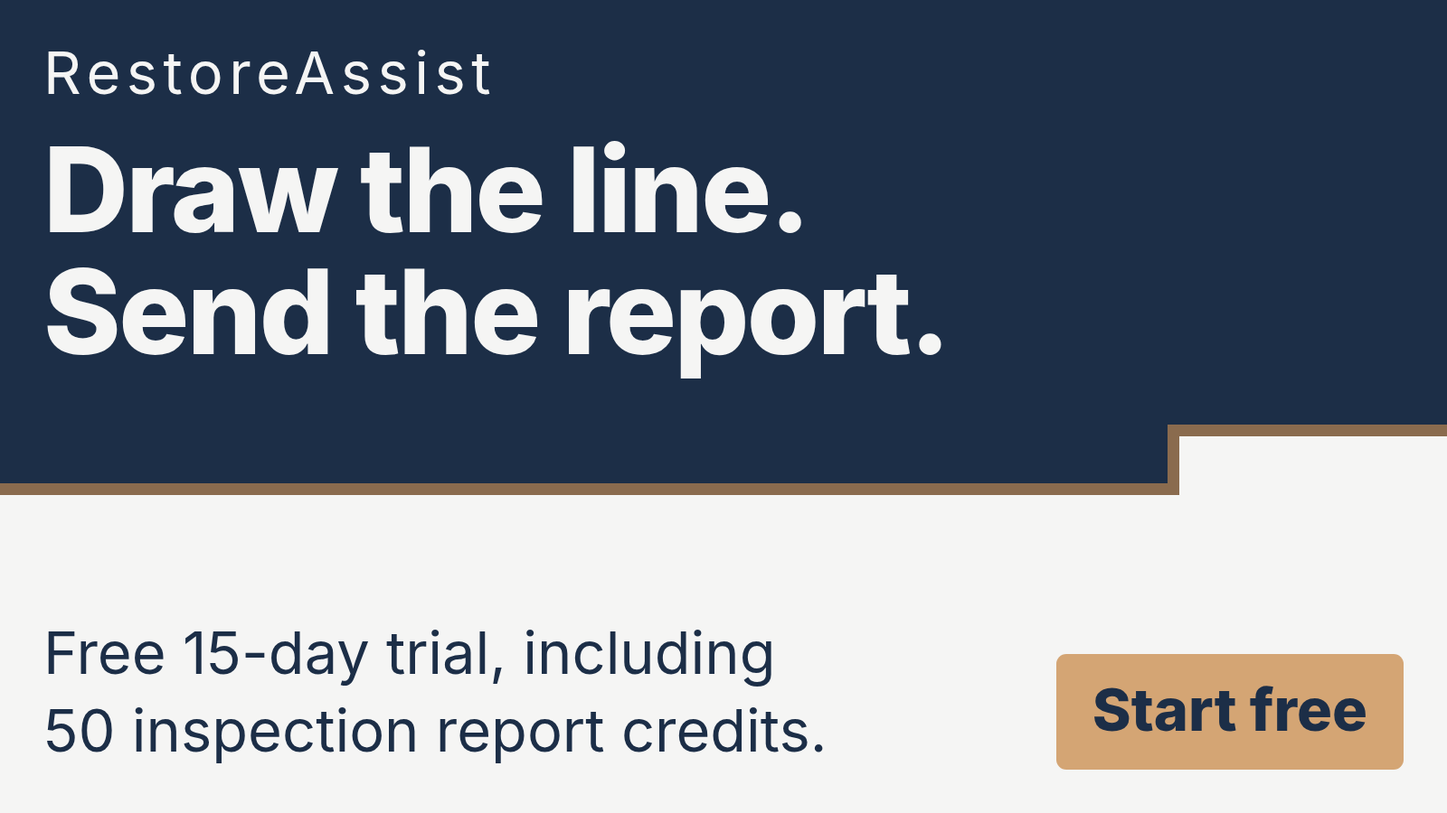
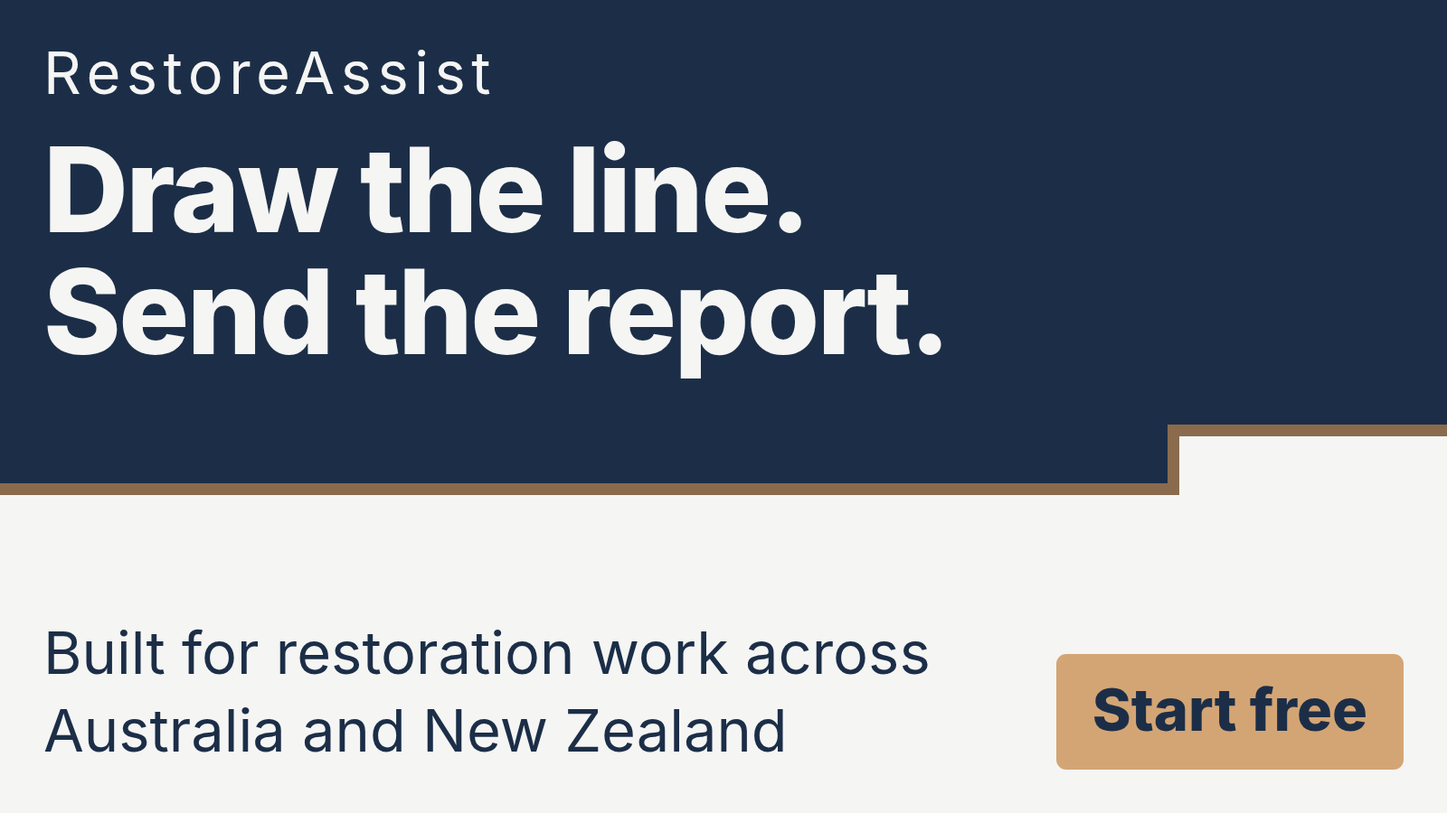
fix(brand-config): close four claims-register findings, withdraw the RA trial claim from boards
Review on #928 posted four findings two minutes before it merged. All four are
valid and two are factual errors of mine, so the corrections land here rather
than on the merged PR.

RestoreAssist's free-trial claim omitted a material cost. The register had
'Free 15-day trial, including 50 inspection report credits' and stopped there.
restoreassist.app/pricing says report generation on every plan, the free trial
included, runs on the customer's own Anthropic or OpenAI API key, billed
separately by the provider; /signup says a key "is required to operate
RestoreAssist" and "You pay providers directly, at cost". A trial advertised as
free while the customer must supply and pay for a third-party key is a material
omission, and the ACL treats that as misleading even where every printed word is
true. The qualification now lives inside the claim string, because a canvas
renders `claim` and never renders `note` — the same reason CARSI's $795 claim
carries "coming soon" inline. The founder owns the final wording; the entry is
marked review_required: founder-wording.

That makes the claim 108 characters, too long for a support line at the 49px
floor. The register's own rule covers this case: drop the claim from the board,
never the qualification from the claim. So the locked board and four funnel
formats now carry the AU/NZ fact, which is self-sufficient at board size. The
composition is untouched — a copy swap inside the locked signature, not a
[…]

Changed region(s): [[0.0312, 0.7778, 0.6562, 0.84], [0.0312, 0.8711, 0.5625, 0.9333]]

diff --git a/docs/marketing-agency/design-runs/ra-job-close-system-2026-08-29-01/funnel/landing-hero.html b/docs/marketing-agency/design-runs/ra-job-close-system-2026-08-29-01/funnel/landing-hero.html
@@ -1,7 +1,7 @@
 <!doctype html><html lang="en-AU"><head><meta charset="utf-8"><title>RestoreAssist · sweep · funnel/landing-hero</title><style>
 /* RestoreAssist · sweep — locked 2026-08-29 from run
    ra-job-close-system-2026-08-29-01 (v3). Tokens: sweep.tokens.json.
-   Slots: RestoreAssist · sweep · funnel/landing-hero 1600 900 48 RestoreAssist Draw the line.<br>Send the report. Free 15-day trial, including<br>50 inspection report credits. Start free 
+   Slots: RestoreAssist · sweep · funnel/landing-hero 1600 900 48 RestoreAssist Draw the line.<br>Send the report. Built for restoration work across Australia and New Zealand Start free 
    Fill  with a data: URI from the grounded pipeline
    (lib/services/ai/image-generation.ts) or leave it empty to keep the flat wet
    field. Never a network URL — render-board.mjs aborts non-file: requests.
@@ -75,7 +75,7 @@ body{background:var(--n50);color:var(--primary);font-family:'RAInter',system-ui,
 </div>
 
 <div class="bottom">
-  <p class="support">Free 15-day trial, including<br>50 inspection report credits.</p>
+  <p class="support">Built for restoration work across Australia and New Zealand</p>
   <div class="cta">Start free</div>
 </div>
 

diff --git a/docs/marketing-agency/design-runs/ra-job-close-system-2026-08-29-01/funnel/post-3.html b/docs/marketing-agency/design-runs/ra-job-close-system-2026-08-29-01/funnel/post-3.html
@@ -1,7 +1,7 @@
 <!doctype html><html lang="en-AU"><head><meta charset="utf-8"><title>RestoreAssist · sweep · funnel/post-3</title><style>
 /* RestoreAssist · sweep — locked 2026-08-29 from run
    ra-job-close-system-2026-08-29-01 (v3). Tokens: sweep.tokens.json.
-   Slots: RestoreAssist · sweep · funnel/post-3 1080 1440 48 RestoreAssist Mark the wall.<br>Keep the record. Free 15-day trial, including<br>50 inspection report credits. Start free 
+   Slots: RestoreAssist · sweep · funnel/post-3 1080 1440 48 RestoreAssist Mark the wall.<br>Keep the record. Built for restoration work across Australia and New Zealand Start free 
    Fill  with a data: URI from the grounded pipeline
    (lib/services/ai/image-generation.ts) or leave it empty to keep the flat wet
    field. Never a network URL — render-board.mjs aborts non-file: requests.
@@ -75,7 +75,7 @@ body{background:var(--n50);color:var(--primary);font-family:'RAInter',system-ui,
 </div>
 
 <div class="bottom">
-  <p class="support">Free 15-day trial, including<br>50 inspection report credits.</p>
+  <p class="support">Built for restoration work across Australia and New Zealand</p>
   <div class="cta">Start free</div>
 </div>
 

diff --git a/docs/marketing-agency/design-runs/ra-job-close-system-2026-08-29-01/funnel/story.html b/docs/marketing-agency/design-runs/ra-job-close-system-2026-08-29-01/funnel/story.html
@@ -1,7 +1,7 @@
 <!doctype html><html lang="en-AU"><head><meta charset="utf-8"><title>RestoreAssist · sweep · funnel/story</title><style>
 /* RestoreAssist · sweep — locked 2026-08-29 from run
    ra-job-close-system-2026-08-29-01 (v3). Tokens: sweep.tokens.json.
-   Slots: RestoreAssist · sweep · funnel/story 1080 1920 48 RestoreAssist Draw the line.<br>Send the report. Free 15-day trial, including<br>50 inspection report credits. Start free 
+   Slots: RestoreAssist · sweep · funnel/story 1080 1920 48 RestoreAssist Draw the line.<br>Send the report. Built for restoration work across Australia and New Zealand Start free 
    Fill  with a data: URI from the grounded pipeline
    (lib/services/ai/image-generation.ts) or leave it empty to keep the flat wet
    field. Never a network URL — render-board.mjs aborts non-file: requests.
@@ -75,7 +75,7 @@ body{background:var(--n50);color:var(--primary);font-family:'RAInter',system-ui,
 </div>
 
 <div class="bottom">
-  <p class="support">Free 15-day trial, including<br>50 inspection report credits.</p>
+  <p class="support">Built for restoration work across Australia and New Zealand</p>
   <div class="cta">Start free</div>
 </div>
 

diff --git a/docs/marketing-agency/design-runs/ra-job-close-system-2026-08-29-01/funnel/post-4.html b/docs/marketing-agency/design-runs/ra-job-close-system-2026-08-29-01/funnel/post-4.html
@@ -1,7 +1,7 @@
 <!doctype html><html lang="en-AU"><head><meta charset="utf-8"><title>RestoreAssist · sweep · funnel/post-4</title><style>
 /* RestoreAssist · sweep — locked 2026-08-29 from run
    ra-job-close-system-2026-08-29-01 (v3). Tokens: sweep.tokens.json.
-   Slots: RestoreAssist · sweep · funnel/post-4 1080 1440 48 RestoreAssist Finish the job<br>at the job. Free 15-day trial, including<br>50 inspection report credits. Start free 
+   Slots: RestoreAssist · sweep · funnel/post-4 1080 1440 48 RestoreAssist Finish the job<br>at the job. Built for restoration work across Australia and New Zealand Start free 
    Fill  with a data: URI from the grounded pipeline
    (lib/services/ai/image-generation.ts) or leave it empty to keep the flat wet
    field. Never a network URL — render-board.mjs aborts non-file: requests.
@@ -75,7 +75,7 @@ body{background:var(--n50);color:var(--primary);font-family:'RAInter',system-ui,
 </div>
 
 <div class="bottom">
-  <p class="support">Free 15-day trial, including<br>50 inspection report credits.</p>
+  <p class="support">Built for restoration work across Australia and New Zealand</p>
   <div class="cta">Start free</div>
 </div>
 

diff --git a/docs/marketing-agency/design-runs/ra-job-close-system-2026-08-29-01/sweep/board.html b/docs/marketing-agency/design-runs/ra-job-close-system-2026-08-29-01/sweep/board.html
@@ -71,7 +71,7 @@
   </div>
 
   <div class="bottom">
-    <p class="support">Free 15-day trial, including<br>50 inspection report credits.</p>
+    <p class="support">Built for restoration work across Australia and New Zealand</p>
     <div class="cta">Start free</div>
   </div>
 </body>

diff --git a/packages/brand-config/src/brands/ra.claims.md b/packages/brand-config/src/brands/ra.claims.md
@@ -14,17 +14,31 @@ brand: ra
 #   vg_ref       the row id in .claude/memory/verification-gates.md, if one exists
 #   expires_on   optional — coverage and offer claims should carry one
 facts_approved:
-  - claim: 'Free 15-day trial, including 50 inspection report credits'
-    source_url: 'https://restoreassist.app'
+  - claim: 'Free 15-day trial, 50 inspection report credits — reports run on your own Anthropic or OpenAI key, billed by them'
+    source_url: 'https://restoreassist.app/pricing'
     verified_on: 29/08/2026
     vg_ref: none
     expires_on: 28/02/2027
+    review_required: founder-wording
     note: >-
-      Source wording is "Start free — 15-day trial" and "15-day trial and 50
-      inspection report credits", with a live /signup path. Verified as actually
-      available on 29/08/2026, not a waitlist. Re-verify before reuse: a trial
-      length and a credit allowance are the two things most likely to change
-      quietly.
+      CORRECTED 29/08/2026 after review. The first version of this claim read
+      "Free 15-day trial, including 50 inspection report credits" and stopped
+      there. It was written from the homepage alone; /pricing was never fetched.
+      That page says: "Report generation on every plan — including your free
+      trial — runs on your own Anthropic or OpenAI API key", billed separately
+      by the provider, and /signup says "An Anthropic or OpenAI API key is
+      required to operate RestoreAssist. You pay providers directly, at cost."
+      A trial advertised as free while the customer must supply and pay for a
+      third-party API key is a material omission, and omitting it is the kind
+      of thing the ACL treats as misleading even where every word printed is
+      true. A canvas renders `claim` and never renders `note`, so the
+      qualification has to live in the string — the same reason CARSI's $795
+      claim carries "coming soon" inline.
+      THE FOUNDER OWNS THE FINAL WORDING. This phrasing is the shortest form
+      that still discloses who pays; it is deliberately an under-claim, not a
+      polished line. If it is judged too long for a board, the correct move is
+      to drop the claim from the board, never to drop the qualification from
+      the claim.
   - claim: 'Built for restoration work across Australia and New Zealand'
     source_url: 'https://restoreassist.app'
     verified_on: 29/08/2026
@@ -44,9 +58,33 @@ claim_review_owner: founder
 **Two claims, both offer-and-coverage.** Everything else renders as
 `[NEEDS APPROVAL: claim]` — the safe default, not a blocker.
 
-**No price is publishable.** The site states no price, no tier and no
-subscription cost as at 29/08/2026. There is therefore no source for any RA
-pricing claim, and none may be inferred from the trial terms.
+**No pricing claim is approved — but a pricing source exists.** An earlier
+version of this file said "the site states no price, no tier and no
+subscription cost". That was wrong, and wrong in an instructive way: it was
+inferred from the homepage, which was the only page fetched, and then written
+down as a verified fact. <https://restoreassist.app/pricing> publishes, as at
+29/08/2026:
+
+| Item            | Price                        | Per report |
+| --------------- | ---------------------------- | ---------- |
+| Free Trial      | $0 — 50 reports, 15 days     | —          |
+| Monthly         | $99/month — 50 reports/month | $1.98      |
+| 8 Reports Pack  | $20                          | $2.50      |
+| 25 Reports Pack | $50                          | $2.00      |
+| 60 Reports Pack | $100                         | $1.67      |
+| Add-ons         | $11/month each               | —          |
+
+Stated as "AUD, incl. GST. Tax invoices issued monthly." **Every per-report
+figure on that page is explicitly exclusive of AI provider costs**, which the
+customer pays directly.
+
+None of these are in `facts_approved`. Not because there is no source —
+there plainly is — but because approving a price is the founder's call, as
+VG-60 was for CARSI, and because any RA price printed on a canvas would have
+to carry the API-key cost the same way the trial claim now does. Distinguish
+the two states carefully: "not yet approved" is where RA pricing sits;
+"no source exists" is where the 4.8/50 rating sits, and they are not the
+same kind of blocked.
 
 ## The standards badges are the main exposure
 
@@ -89,16 +127,22 @@ App Store or Google Play link appears. Do not render an app-store badge, a
 Sourced from `.claude/memory/verification-gates.md`. Only `foundation-keeper`
 may flip a gate, and verbal confirmation does not flip one.
 
-| Candidate claim                       | VG row | Status                  | May print?                                       |
-| ------------------------------------- | ------ | ----------------------- | ------------------------------------------------ |
-| Free 15-day trial + 50 report credits | none   | Live-source verified    | **Approved** — in `facts_approved`               |
-| AU + NZ coverage                      | none   | Live-source verified    | **Approved** — in `facts_approved`               |
-| S500:2021-aligned report drafts       | none   | On site, hedged         | Only with "aligned" intact — never as compliance |
-| NCC 2022 compliance                   | VG-06  | `[verification needed]` | **No — not publishable in any form**             |
-| 4.8 / 50 aggregate rating             | VG-43  | `[verification needed]` | **No — and no live source exists**               |
-| iOS App Store availability            | VG-40  | `[verification needed]` | **No — no store link on the site**               |
-| GA4 + Search Console wired            | VG-44  | `[verification needed]` | Internal instrumentation, not a marketing claim  |
-| Trial signup conversion tracking      | VG-45  | `[verification needed]` | Internal instrumentation, not a marketing claim  |
+Rows already in `facts_approved` are listed **verbatim**, because a shortened
+paraphrase in this table is the thing most likely to get lifted onto a canvas
+instead of the approved string. The heading covers both states; the "May print?"
+column is the authority on which one a row is in.
+
+| Candidate claim                                                                                                     | VG row | Status                  | May print?                                                                       |
+| ------------------------------------------------------------------------------------------------------------------- | ------ | ----------------------- | -------------------------------------------------------------------------------- |
+| `Free 15-day trial, 50 inspection report credits — reports run on your own Anthropic or OpenAI key, billed by them` | none   | Live-source verified    | **Approved, wording pending founder** — in `facts_approved`                      |
+| `Built for restoration work across Australia and New Zealand`                                                       | none   | Live-source verified    | **Approved** — in `facts_approved`                                               |
+| $99/month · $20 / $50 / $100 report packs · AUD incl. GST                                                           | none   | Live source at /pricing | **Not yet approved** — founder's call, and any price must carry the API-key cost |
+| S500:2021-aligned report drafts                                                                                     | none   | On site, hedged         | Only with "aligned" intact — never as compliance                                 |
+| NCC 2022 compliance                                                                                                 | VG-06  | `[verification needed]` | **No — not publishable in any form**                                             |
+| 4.8 / 50 aggregate rating                                                                                           | VG-43  | `[verification needed]` | **No — and no live source exists**                                               |
+| iOS App Store availability                                                                                          | VG-40  | `[verification needed]` | **No — no store link on the site**                                               |
+| GA4 + Search Console wired                                                                                          | VG-44  | `[verification needed]` | Internal instrumentation, not a marketing claim                                  |
+| Trial signup conversion tracking                                                                                    | VG-45  | `[verification needed]` | Internal instrumentation, not a marketing claim                                  |
 
 ## Anti-references
 

diff --git a/packages/brand-config/src/brands/dr.claims.md b/packages/brand-config/src/brands/dr.claims.md
@@ -99,18 +99,26 @@ rather than citing. It is deliberately **not** in `facts_approved`: a canvas
 renders `claim` alone, and this one cannot be made self-sufficient at a size
 that fits a board. Use it in long-form copy where the attribution fits.
 
-### Candidates awaiting founder sign-off
+### Claim states — approved and awaiting sign-off
 
-| Candidate claim                    | VG row | Status               | May print?                                                              |
-| ---------------------------------- | ------ | -------------------- | ----------------------------------------------------------------------- |
-| 24/7 emergency response            | none   | Live-source verified | **Approved** — must stay operationally true                             |
-| AU + NZ coverage                   | none   | Live-source verified | **Approved** — coverage, never "office in X"                            |
-| IICRC-certified contractors        | none   | Live-source verified | **Approved** — subject must remain the contractors                      |
-| IICRC S500:2025 / S520:2025 / FSRT | none   | On site as badges    | Only as the standard a service follows, never as DR's own certification |
-| "$1M+ coverage"                    | none   | Recruitment criteria | **No — misattributes a contractor requirement**                         |
-| "2+ years experience"              | none   | Recruitment criteria | **No — misattributes a contractor requirement**                         |
-| ABN 85 151 794 142                 | none   | NRPG's entity        | **No — wrong entity for a DR surface**                                  |
-| 54% insured-Australians statistic  | none   | YouGov, April 2026   | Long-form only, with source and date visible                            |
+An earlier heading read "Candidates awaiting founder sign-off" while three of
+its rows were already in `facts_approved` and marked **Approved**, which is two
+states at once. The table covers both; the "May print?" column is the authority.
+Approved rows are quoted **verbatim** from `facts_approved.claim`, because a
+shortened paraphrase here is the thing most likely to get lifted onto a canvas
+instead of the approved string.
+
+| Candidate claim                                         | VG row | Status               | May print?                                                                                                                                                                                                                                                                                                       |
+| ------------------------------------------------------- | ------ | -------------------- | ---------------------------------------------------------------------------------------------------------------------------------------------------------------------------------------------------------------------------------------------------------------------------------------------------------------- |
+| `24/7 emergency restoration response`                   | none   | Live-source verified | **Approved** — must stay operationally true                                                                                                                                                                                                                                                                      |
+| `Restoration services across Australia and New Zealand` | none   | Live-source verified | **Approved** — coverage, never "office in X"                                                                                                                                                                                                                                                                     |
+| `Work carried out by IICRC-certified contractors`       | none   | Live-source verified | **Approved** — subject must remain the contractors                                                                                                                                                                                                                                                               |
+| IICRC S500:2025 / S520:2025                             | none   | On site as badges    | Only as the **standard a service follows**, never as DR's own certification                                                                                                                                                                                                                                      |
+| IICRC FSRT                                              | none   | On site as a badge   | **Different kind of thing — a technician certification, not a standard.** FSRT is Fire and Smoke Damage Restoration Technician: a credential held by a _person_. It may only ever be attributed to a named, verified contractor, never to Disaster Recovery and never phrased as a standard the service follows. |
+| "$1M+ coverage"                                         | none   | Recruitment criteria | **No — misattributes a contractor requirement**                                                                                                                                                                                                                                                                  |
+| "2+ years experience"                                   | none   | Recruitment criteria | **No — misattributes a contractor requirement**                                                                                                                                                                                                                                                                  |
+| ABN 85 151 794 142                                      | none   | NRPG's entity        | **No — wrong entity for a DR surface**                                                                                                                                                                                                                                                                           |
+| 54% insured-Australians statistic                       | none   | YouGov, April 2026   | Long-form only, with source and date visible                                                                                                                                                                                                                                                                     |
 
 ## Anti-references
 

diff --git a/docs/marketing-agency/design-runs/ra-job-close-system-2026-08-29-01/copy.md b/docs/marketing-agency/design-runs/ra-job-close-system-2026-08-29-01/copy.md
@@ -9,18 +9,18 @@ appears — which is what makes the set promotable under SKILL.md §12.
 
 - **Eyebrow:** RestoreAssist
 - **Hook:** Draw the line. Send the report.
-- **Support:** Free 15-day trial, including 50 inspection report credits.
+- **Support:** Built for restoration work across Australia and New Zealand.
 - **CTA:** Start free
 
 ## Funnel suite
 
 | Asset        | Dims      | Hook                            | Support                                                      | CTA        |
 | ------------ | --------- | ------------------------------- | ------------------------------------------------------------ | ---------- |
-| landing-hero | 1600×900  | Draw the line. Send the report. | Free 15-day trial, including 50 inspection report credits.   | Start free |
+| landing-hero | 1600×900  | Draw the line. Send the report. | Built for restoration work across Australia and New Zealand. | Start free |
 | post-2       | 1080×1440 | Readings taken. Report drafted. | Built for restoration work across Australia and New Zealand. | Start free |
-| post-3       | 1080×1440 | Mark the wall. Keep the record. | Free 15-day trial, including 50 inspection report credits.   | Start free |
-| post-4       | 1080×1440 | Finish the job at the job.      | Free 15-day trial, including 50 inspection report credits.   | Start free |
-| story        | 1080×1920 | Draw the line. Send the report. | Free 15-day trial, including 50 inspection report credits.   | Start free |
+| post-3       | 1080×1440 | Mark the wall. Keep the record. | Built for restoration work across Australia and New Zealand. | Start free |
+| post-4       | 1080×1440 | Finish the job at the job.      | Built for restoration work across Australia and New Zealand. | Start free |
+| story        | 1080×1920 | Draw the line. Send the report. | Built for restoration work across Australia and New Zealand. | Start free |
 | og-image     | 1200×630  | Draw the line. Send the report. | —                                                            | Start free |
 | email-header | 1200×400  | Draw the line.                  | —                                                            | —          |
 

diff --git a/docs/marketing-agency/design-runs/ra-job-close-system-2026-08-29-01/README.md b/docs/marketing-agency/design-runs/ra-job-close-system-2026-08-29-01/README.md
@@ -138,3 +138,33 @@ No `design_runs` table is applied and no Linear task was created (Linear MCP not
 authorised). The index row in `docs/marketing-agency/design-runs/README.md` is
 the only consumer of this manifest. Nothing was published, posted or scheduled —
 the engine has no publish path, and everything here remains DRAFT.
+
+## Claim correction — 29/08/2026, after the lock
+
+The locked board and four funnel formats originally carried
+`Free 15-day trial, including 50 inspection report credits`. **That claim has
+been withdrawn from every board in this run** and replaced with
+`Built for restoration work across Australia and New Zealand`.
+
+Review on [#928](https://github.com/CleanExpo/Synthex/pull/928) flagged that the
+trial claim omitted a material cost, and checking the source proved it right:
+<https://restoreassist.app/pricing> states that "Report generation on every plan
+— including your free trial — runs on your own Anthropic or OpenAI API key",
+billed separately by the provider, and /signup states "An Anthropic or OpenAI
+API key is required to operate RestoreAssist. You pay providers directly, at
+cost."
+
+A trial advertised as free while the customer must supply and pay for a
+third-party API key is a material omission. The register's approved string now
+carries that qualification inline, which makes it 108 characters — too long for
+a support line at the 49px floor. `ra.claims.md` states the rule for exactly
+this case: **drop the claim from the board, never the qualification from the
+claim.** So the boards took the AU/NZ fact instead, which is self-sufficient at
+board size.
+
+The composition is unchanged — this is a copy swap inside the locked signature,
+not a re-lock. The support line wraps naturally rather than on an authored
+`<br>`; the authored break left "Zealand" as a widow on a third line.
+
+The claim's final wording is the founder's, not this run's. It is marked
+`review_required: founder-wording` in `ra.claims.md`.
